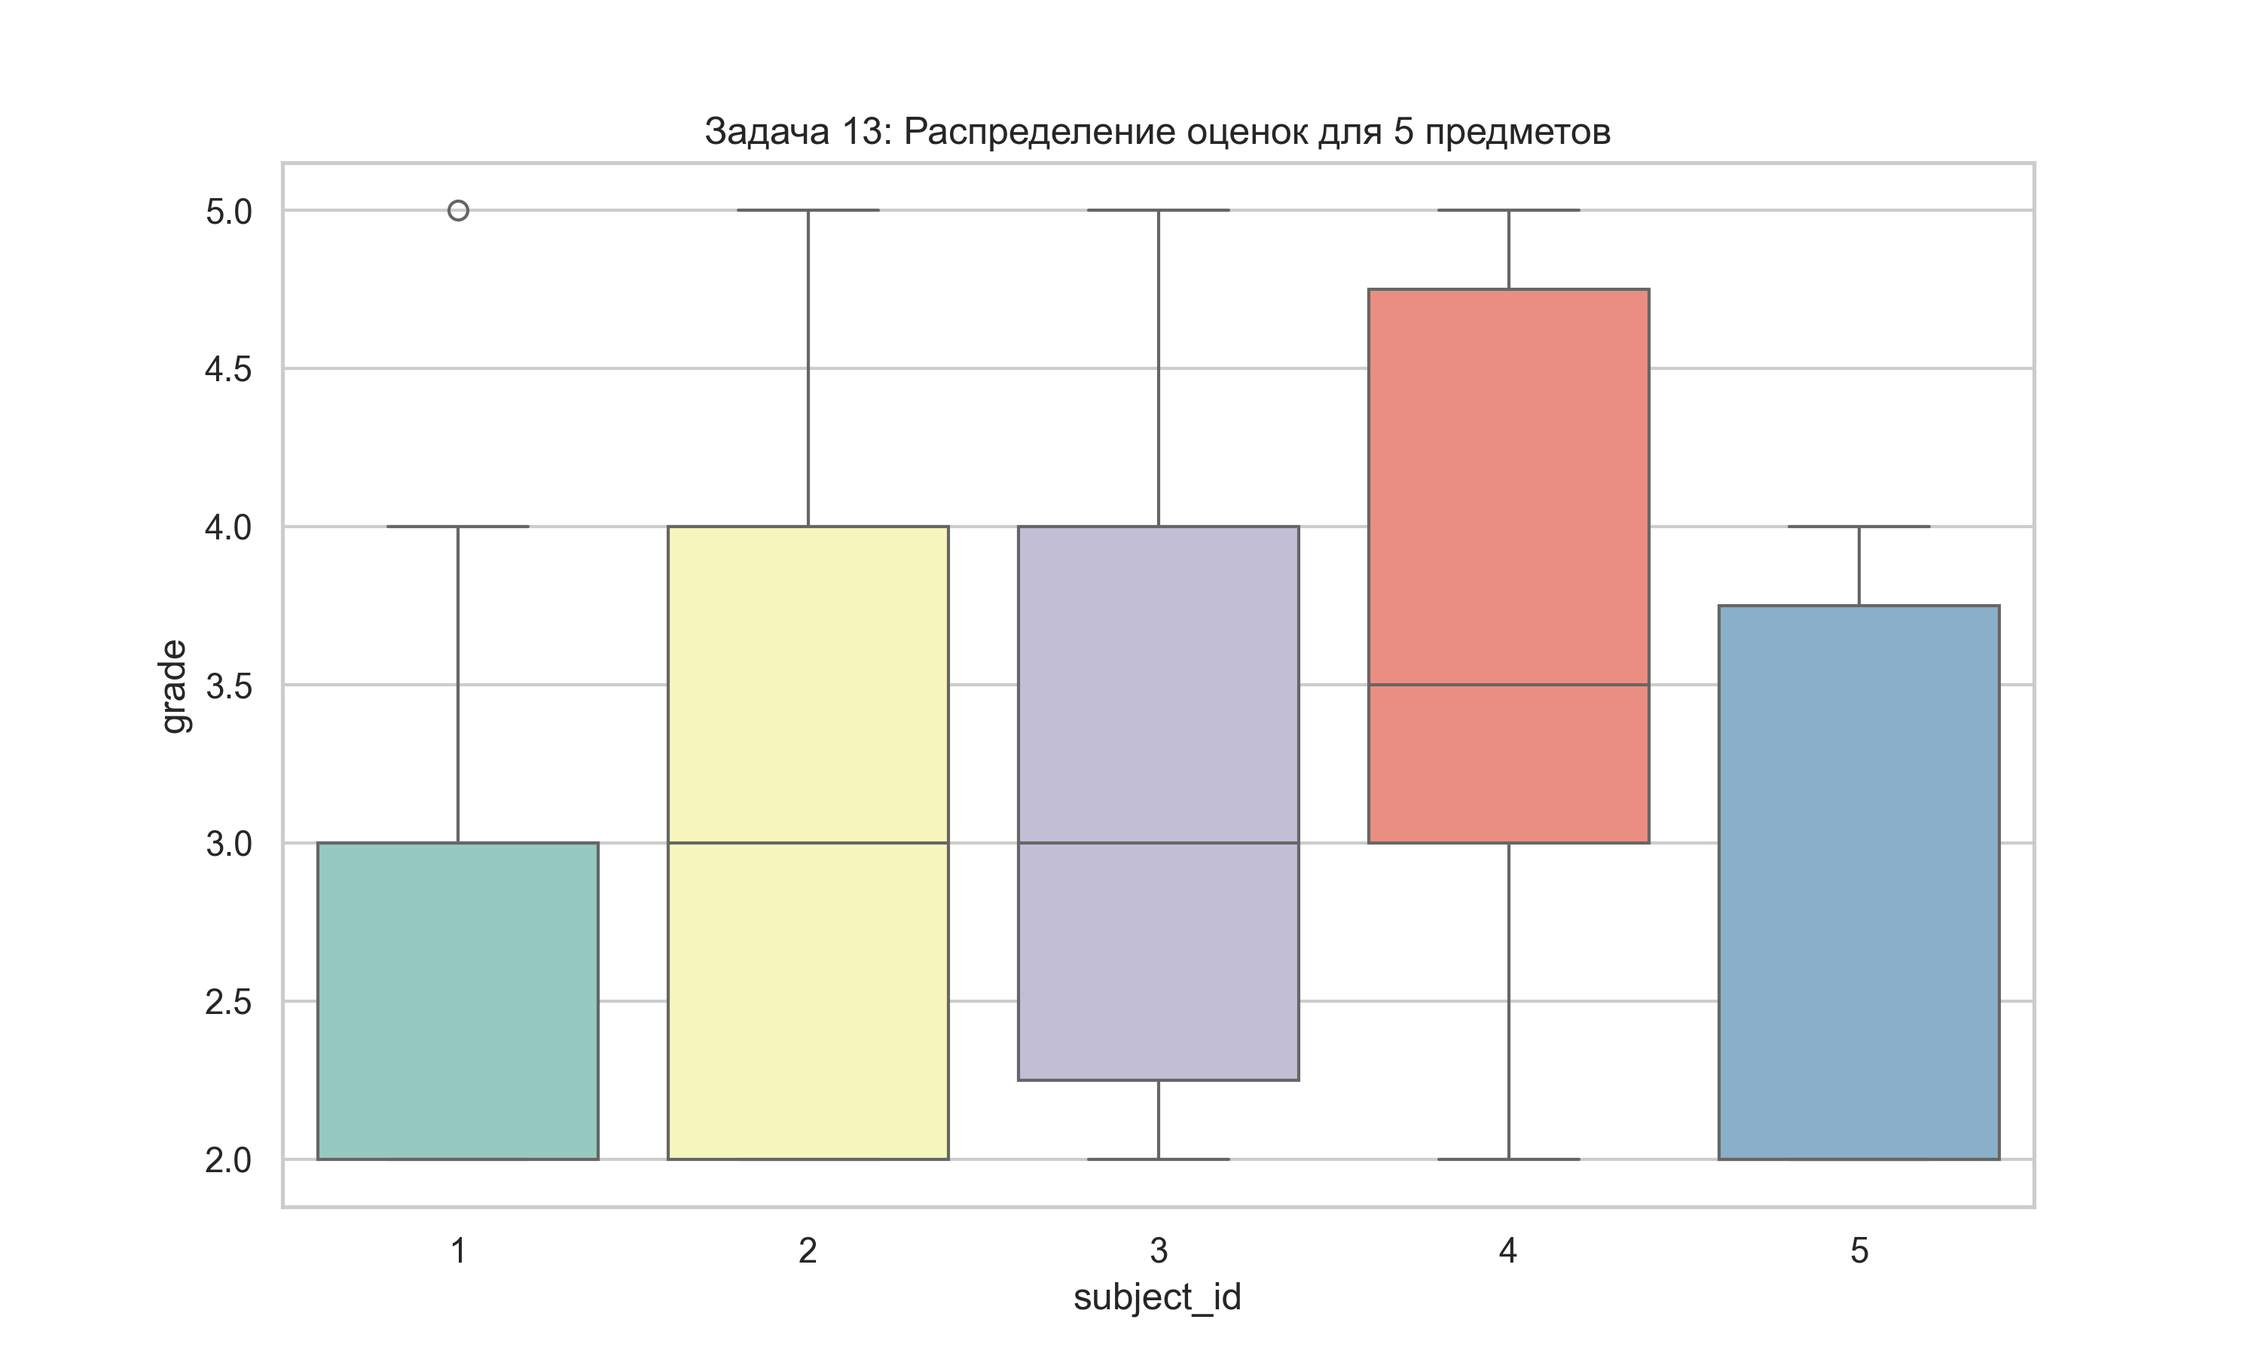
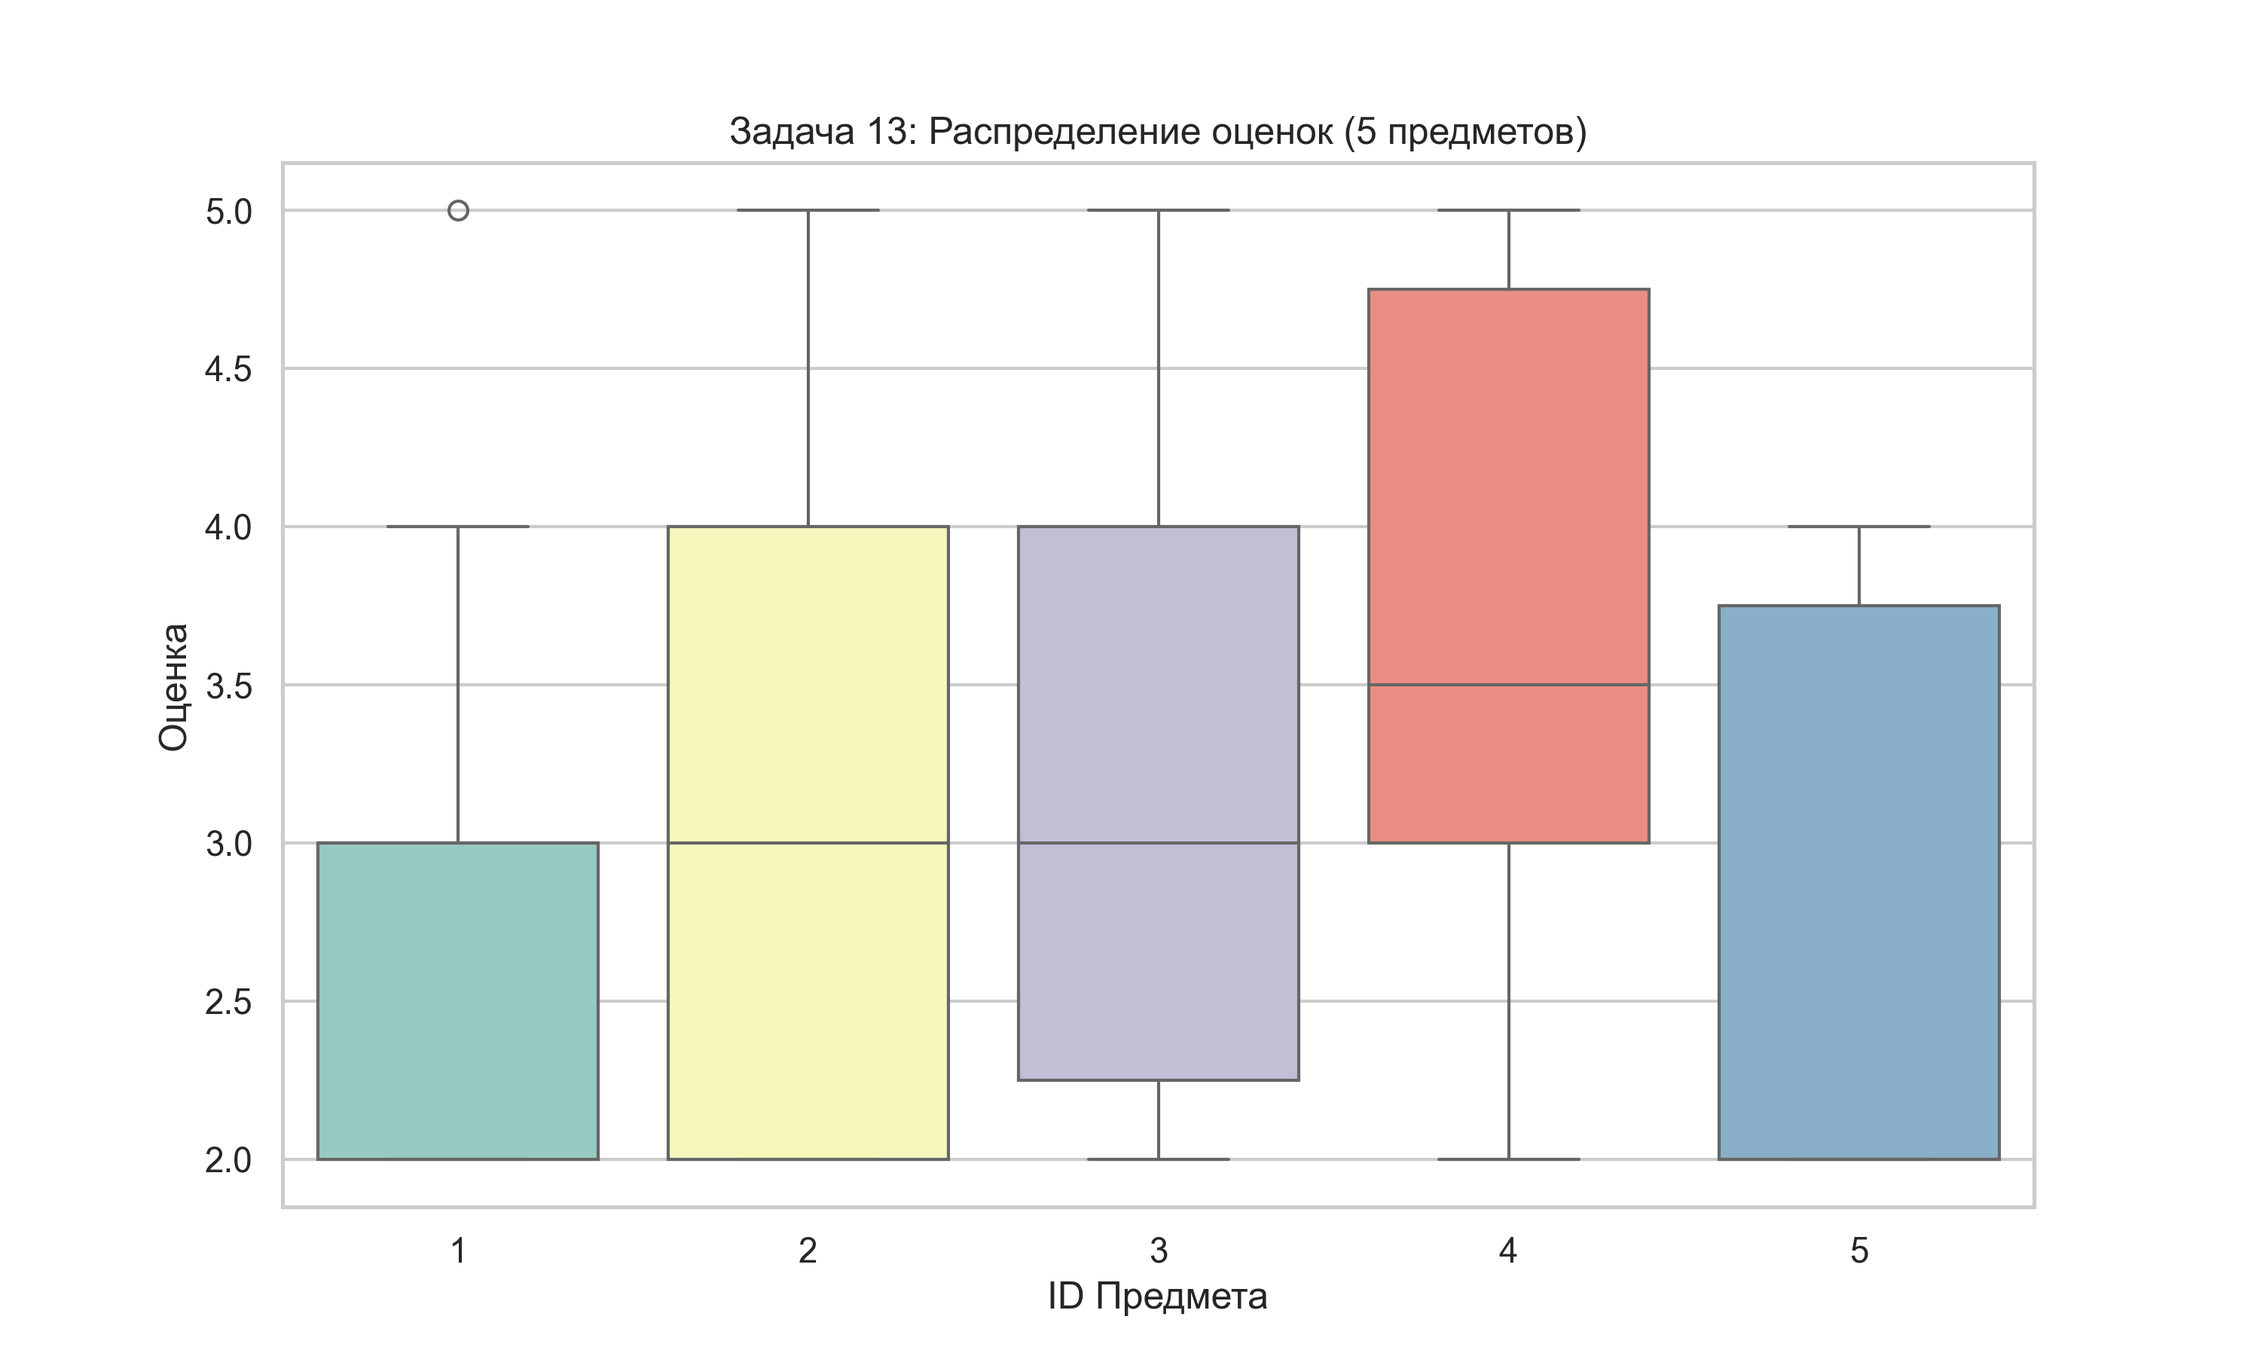
13 week commit

Changed region(s): [[0.31, 0.0622, 0.713, 0.1244], [0.465, 0.9333, 0.558, 0.9644], [0.062, 0.4667, 0.093, 0.56]]

diff --git a/GradeVisualizer.py b/GradeVisualizer.py
@@ -1,68 +1,165 @@
+import csv
+import random
+import numpy as np
 import pandas as pd
 import matplotlib.pyplot as plt
 import seaborn as sns
+import os
 
 
+# ========== Задание 9: Генератор исходных данных ==========
+class FakeGradesGenerator:
+    def __init__(self, filename, seed=42):
+        self.filename = filename
+        self.seed = seed
+        self.num_students = 10
+        self.num_subjects = 5
+
+    def generate(self):
+        random.seed(self.seed)
+        with open(self.filename, "w", newline="") as f:
+            writer = csv.writer(f)
+            writer.writerow(["student_id", "subject_id", "grade"])
+            for student_id in range(1, self.num_students + 1):
+                for subject_id in range(1, self.num_subjects + 1):
+                    grade = random.randint(2, 5)
+                    writer.writerow([student_id, subject_id, grade])
+
+    def run(self):
+        self.generate()
+        print(f"=== Задание 9: Файл '{self.filename}' успешно создан ===")
+
+
+# ========== Задание 10: Генерация скоррелированных данных ==========
+class GradesCorrelation:
+    def __init__(self, input_file, output_file, seed=42):
+        self.input_file = input_file
+        self.output_file = output_file
+        self.rng = np.random.default_rng(seed)
+
+    def process(self):
+        if not os.path.exists(self.input_file): return
+        with open(self.input_file, "r") as f:
+            reader = csv.DictReader(f)
+            rows = list(reader)
+
+        output_rows = []
+        for row in rows:
+            sid, subid, g1 = row['student_id'], row['subject_id'], float(row['grade'])
+            noise = self.rng.normal(0, 0.3)
+            grade2 = np.clip(0.7 * g1 + noise, 2.0, 5.0)
+            output_rows.append([sid, subid, g1, round(grade2, 2)])
+
+        with open(self.output_file, "w", newline="") as f:
+            writer = csv.writer(f)
+            writer.writerow(["student_id", "subject_id", "grade1", "grade2"])
+            writer.writerows(output_rows)
+
+    def run(self):
+        self.process()
+        print(f"=== Задание 10: Файл '{self.output_file}' с корреляцией создан ===")
+
+
+# ========== Задание 11: Валидация данных ==========
+class GradesValidator:
+    def __init__(self, filename):
+        self.filename = filename
+
+    def run(self):
+        print("\n=== Задание 11: Валидация данных ===")
+        df = pd.read_csv(self.filename)
+        print(f"✅ Файл '{self.filename}' загружен.")
+        if (df['grade'] < 2).any() or (df['grade'] > 5).any():
+            print("❌ Обнаружены ошибки в диапазоне оценок!")
+        else:
+            print("✅ Все оценки в диапазоне [2, 5].")
+        print(df['grade'].describe())
+
+
+# ========== Задание 12: Анализ ==========
+class GradesAnalyzer:
+    def __init__(self, filename):
+        self.filename = filename
+
+    def run(self):
+        print("\n=== Задание 12: Анализ средних баллов ===")
+        df = pd.read_csv(self.filename)
+        means = df.groupby('subject_id')['grade'].mean().sort_values(ascending=False)
+        print("Средний балл по предметам:")
+        print(means.reset_index())
+
+
+# ========== Задание 13: Визуализация (Исправлено) ==========
 class GradeVisualizer:
     def __init__(self, file_path):
-        """Инициализация класса и загрузка данных."""
         self.file_path = file_path
         self.df = None
+        sns.set_theme(style="whitegrid")  # Настройка стиля
         self._load_data()
 
     def _load_data(self):
-        """Внутренний метод для загрузки CSV."""
-        try:
+        if os.path.exists(self.file_path):
             self.df = pd.read_csv(self.file_path)
-            print(f"Файл {self.file_path} успешно загружен.")
-        except FileNotFoundError:
-            print("Ошибка: Файл не найден.")
+            print(f"\n[INFO] Файл '{self.file_path}' загружен для 13-й задачи.")
 
     def plot_top_subjects_boxplot(self, n_subjects=5, save_path='grades_boxplot.png'):
-        """Построение Boxplot для топ-N предметов по количеству оценок или ID."""
-        if self.df is None:
-            return
+        if self.df is None: return
 
-        # Выбираем первые 5 уникальных предметов для визуализации
-        selected_subjects = self.df['subject_id'].unique()[:n_subjects]
-        subset = self.df[self.df['subject_id'].isin(selected_subjects)]
+        selected = self.df['subject_id'].unique()[:n_subjects]
+        subset = self.df[self.df['subject_id'].isin(selected)]
 
         plt.figure(figsize=(10, 6))
-        sns.boxplot(x='subject_id', y='grade', data=subset, palette='Set3')
+        # ИСПРАВЛЕНИЕ: добавлены hue='subject_id' и legend=False для устранения предупреждения
+        sns.boxplot(
+            x='subject_id',
+            y='grade',
+            data=subset,
+            palette='Set3',
+            hue='subject_id',
+            legend=False
+        )
 
-        plt.title(f'Распределение оценок для {len(selected_subjects)} предметов')
+        plt.title(f'Задача 13: Распределение оценок ({len(selected)} предметов)')
         plt.xlabel('ID Предмета')
         plt.ylabel('Оценка')
-        plt.grid(axis='y', linestyle='--', alpha=0.7)
-
-        plt.savefig(save_path)
+        plt.savefig(save_path, dpi=300)
         plt.show()
-        print(f"График Boxplot сохранен как {save_path}")
+        plt.close()  # Очистка памяти
+        print(f"✅ График Boxplot сохранен как {save_path}")
 
     def plot_grade_histogram(self, save_path='grades_hist.png'):
-        """Построение гистограммы распределения всех оценок."""
-        if self.df is None:
-            return
-
+        if self.df is None: return
         plt.figure(figsize=(8, 5))
         sns.histplot(self.df['grade'], bins=10, kde=True, color='skyblue')
-
-        plt.title('Общее распределение оценок')
+        plt.title('Задача 13: Общее распределение оценок')
         plt.xlabel('Оценка')
         plt.ylabel('Частота')
-
-        plt.savefig(save_path)
+        plt.savefig(save_path, dpi=300)
         plt.show()
-        print(f"Гистограмма сохранена как {save_path}")
+        plt.close()
+        print(f"✅ Гистограмма сохранена как {save_path}")
 
 
-# Пример использования:
+# ==========================================
+# ГЛАВНЫЙ БЛОК ЗАПУСКА (ОДИН MAIN ФАЙЛ)
+# ==========================================
 if __name__ == "__main__":
-    # Предполагаем, что файл fake_grades.csv был создан в задачах 9-10
-    visualizer = GradeVisualizer('fake_grades.csv')
+    # Задания 9 и 10
+    FakeGradesGenerator("fake_grades.csv").run()
+    GradesCorrelation("fake_grades.csv", "fake_grades_v2.csv").run()
 
-    # Визуализируем распределение по предметам (Boxplot)
-    visualizer.plot_top_subjects_boxplot(n_subjects=5)
+    # Задание 11
+    validator = GradesValidator("fake_grades.csv")
+    validator.run()
 
-    # Визуализируем общую гистограмму
-    visualizer.plot_grade_histogram()
+    # Задание 12
+    analyzer = GradesAnalyzer("fake_grades.csv")
+    analyzer.run()
+
+    # ЗАДАНИЕ 13: Визуализация
+    print("\n" + "=" * 30 + "\nВЫПОЛНЕНИЕ ЗАДАНИЯ 13\n" + "=" * 30)
+    vis = GradeVisualizer("fake_grades.csv")
+    vis.plot_top_subjects_boxplot()
+    vis.plot_grade_histogram()
+
+    print("\n✅ Все задачи выполнены. Скрипт завершен.")

diff --git a/main.py b/main.py
@@ -6,7 +6,8 @@ import matplotlib.pyplot as plt
 import seaborn as sns
 import os
 
-# ========== Задание 9: Генератор исходных данных ==========
+
+# ========== 9. FakeGradesGenerator ==========
 class FakeGradesGenerator:
     def __init__(self, filename, seed=42):
         self.filename = filename
@@ -28,7 +29,8 @@ class FakeGradesGenerator:
         self.generate()
         print(f"=== Задание 9: Файл '{self.filename}' создан ===")
 
-# ========== Задание 10: Добавление корреляции ==========
+
+# ========== 10. GradesCorrelation ==========
 class GradesCorrelation:
     def __init__(self, input_file, output_file, seed=42):
         self.input_file = input_file
@@ -55,35 +57,38 @@ class GradesCorrelation:
 
     def run(self):
         self.process()
-        print(f"=== Задание 10: Файл '{self.output_file}' с корреляцией создан ===")
+        print(f"=== Задание 10: Файл '{self.output_file}' создан ===")
 
-# ========== Задание 11: Валидация ==========
+
+# ========== 11. GradesValidator ==========
 class GradesValidator:
     def __init__(self, filename):
         self.filename = filename
 
     def run(self):
-        print("\n=== Задание 11: Валидация данных ===")
+        print("\n=== Задание 11: Валидация ===")
         df = pd.read_csv(self.filename)
-        print(f"✅ Файл '{self.filename}' успешно загружен.")
+        print(f"✅ Файл '{self.filename}' загружен.")
         if (df['grade'] < 2).any() or (df['grade'] > 5).any():
             print("❌ Ошибка: оценки вне диапазона!")
         else:
-            print("✅ Все оценки в диапазоне [2, 5].")
+            print("✅ Все оценки в норме.")
         print(df['grade'].describe())
 
-# ========== Задание 12: Анализ ==========
+
+# ========== 12. GradesAnalyzer ==========
 class GradesAnalyzer:
     def __init__(self, filename):
         self.filename = filename
 
     def run(self):
-        print("\n=== Задание 12: Анализ средних баллов ===")
+        print("\n=== Задание 12: Анализ ===")
         df = pd.read_csv(self.filename)
         means = df.groupby('subject_id')['grade'].mean().sort_values(ascending=False)
         print(means.reset_index())
 
-# ========== Задание 13: Визуализация (Исправлено) ==========
+
+# ========== 13. GradeVisualizer (ИСПРАВЛЕНО) ==========
 class GradeVisualizer:
     def __init__(self, file_path):
         self.file_path = file_path
@@ -102,14 +107,20 @@ class GradeVisualizer:
 
         plt.figure(figsize=(10, 6))
         # ИСПРАВЛЕНИЕ: Добавлен hue и legend=False для устранения FutureWarning
-        sns.boxplot(x='subject_id', y='grade', data=subset,
-                    palette='Set3', hue='subject_id', legend=False)
+        sns.boxplot(
+            x='subject_id',
+            y='grade',
+            data=subset,
+            palette='Set3',
+            hue='subject_id',
+            legend=False
+        )
 
-        plt.title(f'Задача 13: Распределение оценок для {len(selected)} предметов')
+        plt.title(f'Задача 13: Распределение оценок ({len(selected)} предметов)')
         plt.savefig(save_path, dpi=300)
         plt.show()
         plt.close()
-        print(f"✅ График Boxplot сохранен как {save_path}")
+        print(f"✅ Boxplot сохранен: {save_path}")
 
     def plot_grade_histogram(self, save_path='grades_hist.png'):
         if self.df is None: return
@@ -119,18 +130,23 @@ class GradeVisualizer:
         plt.savefig(save_path, dpi=300)
         plt.show()
         plt.close()
-        print(f"✅ Гистограмма сохранена как {save_path}")
+        print(f"✅ Гистограмма сохранена: {save_path}")
 
+
+# ========== ГЛАВНЫЙ ЗАПУСК ==========
 if __name__ == "__main__":
-    # Выполняем цепочку заданий
+    # Выполняем все задачи по порядку
     FakeGradesGenerator("fake_grades.csv").run()
     GradesCorrelation("fake_grades.csv", "fake_grades_v2.csv").run()
     GradesValidator("fake_grades.csv").run()
     GradesAnalyzer("fake_grades.csv").run()
 
-    print("\n" + "="*30 + "\nЗАПУСК ВИЗУАЛИЗАЦИИ (Задание 13)\n" + "="*30)
+    print("\n" + "=" * 35)
+    print("ВЫПОЛНЕНИЕ ЗАДАНИЯ 13 (ВИЗУАЛИЗАЦИЯ)")
+    print("=" * 35)
+
     vis = GradeVisualizer("fake_grades.csv")
     vis.plot_top_subjects_boxplot()
     vis.plot_grade_histogram()
 
-    print("\n✅ Все задачи выполнены без ошибок и предупреждений!")
+    print("\n✅ Скрипт успешно завершил работу.")
